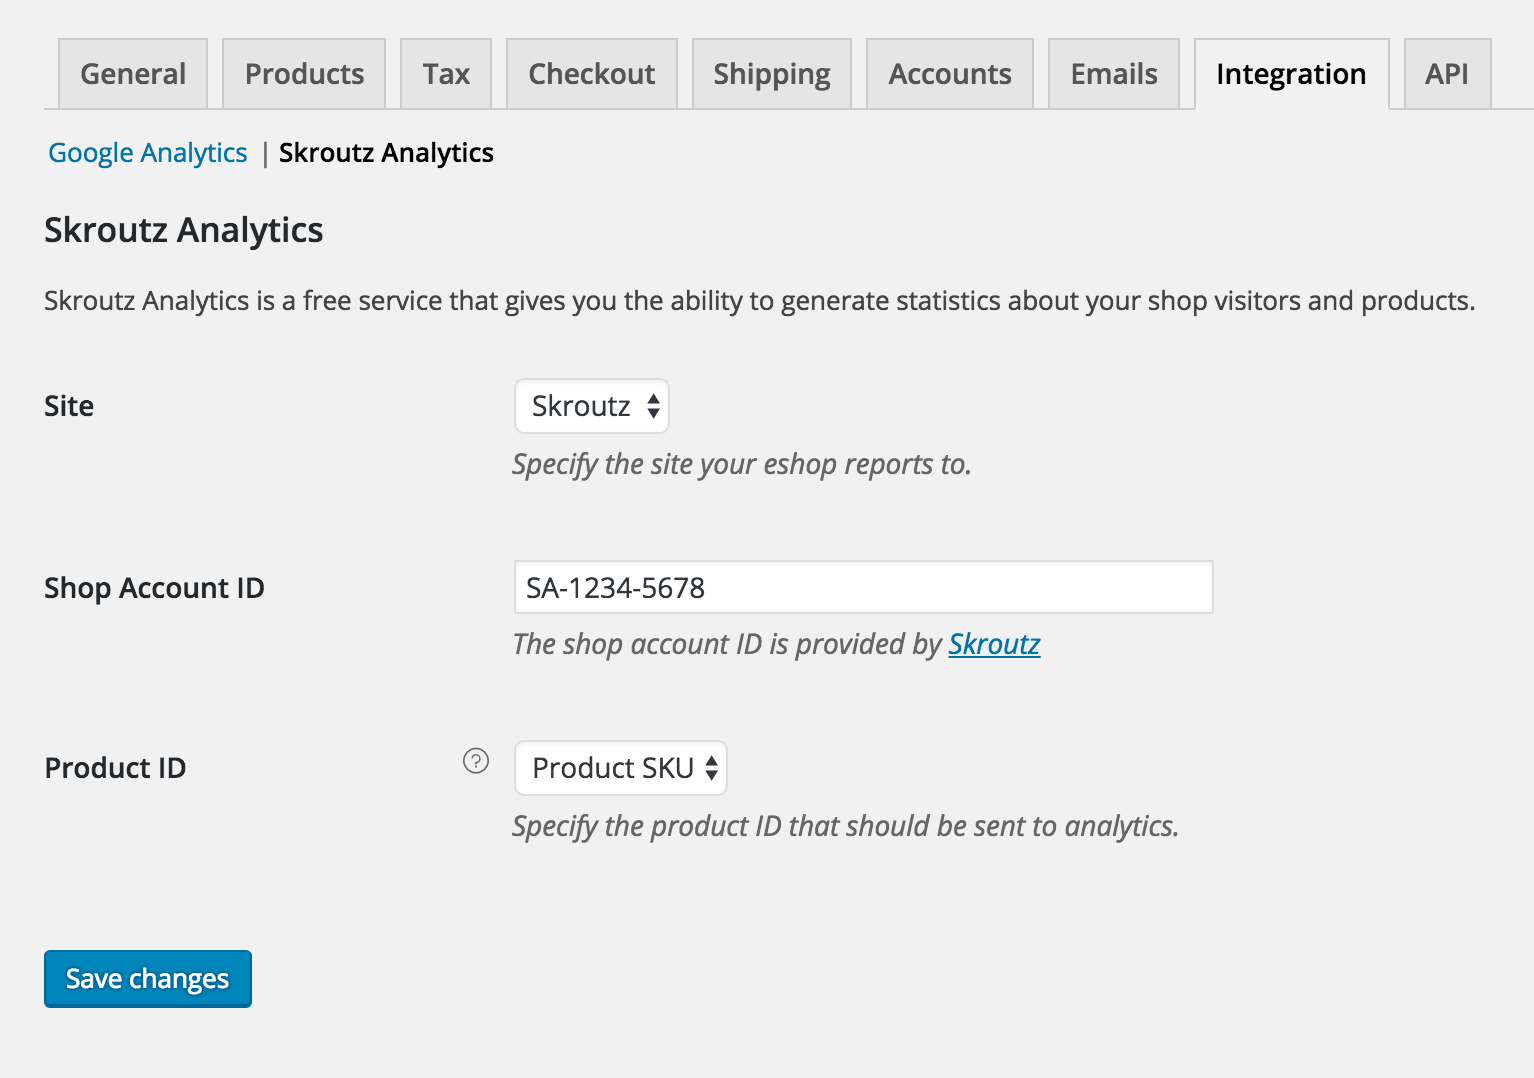
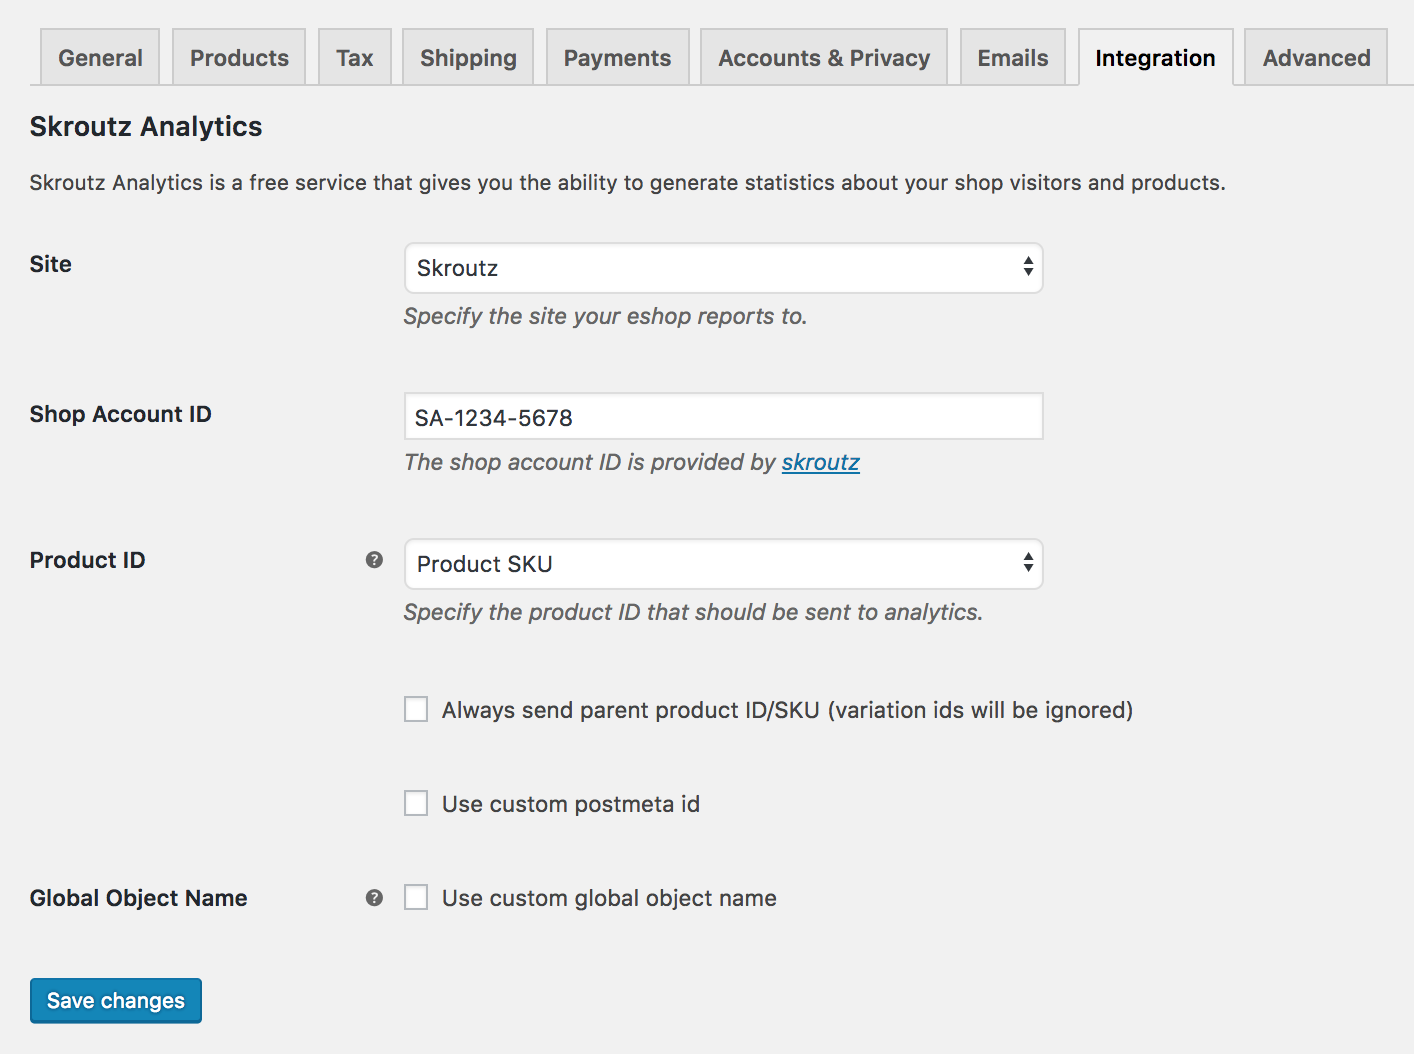
Bump to version 1.3.0

diff --git a/wc-skroutz-analytics.php b/wc-skroutz-analytics.php
@@ -15,7 +15,7 @@
  * Plugin Name:       WooCommerce Skroutz Analytics
  * Plugin URI:        https://github.com/skroutz/wc-skroutz-analytics
  * Description:       Integrate skroutz analytics to your WooCommerce enabled Wordpress site
- * Version:           1.2.0
+ * Version:           1.3.0
  * Author:            Skroutz
  * Author URI:        www.skroutz.gr
  * License:           GPL-2.0

diff --git a/includes/class-wc-skroutz-analytics.php b/includes/class-wc-skroutz-analytics.php
@@ -34,7 +34,7 @@ class WC_Skroutz_Analytics {
 	 * @since    1.0.0
 	 * @var      string    PLUGIN_VERSION    The current version of the plugin.
 	 */
-	const PLUGIN_VERSION = '1.2.0';
+	const PLUGIN_VERSION = '1.3.0';
 
 	/**
 	 * Define the core functionality of the plugin.

diff --git a/README.md b/README.md
@@ -58,6 +58,12 @@ The plugin uses the WooCommerce tax rates you have configured in the settings. I
     - Make sure the `Shipping checkbox` is checked in the Tax Rates table (see above)
     - Also the `Tax Status` under `WooCommerce > Settings > Shipping > Flat Rate` must be set to `Taxable`. Note that the `Cost` value should be set excluding tax, as the tax will be automatically applied by WooCommerce. For example if you want the shipping cost to be 5 euro, you should set the cost to 4.03, given a 24% rate tax. The same applies for all the shipping methods that are enabled for your eshop.
 
+##### I don't use neither product ID nor SKU in XML, but a custom postmeta id
+The option to use a custom postmeta id is supported. You have to check the `Use custom postmeta id` option in the plugin settings, and then specify the custom id key used in the postmeta table. Note that if the custom id is not found for a product the product id/sku will be used instead.
+
+##### Global object name `skroutz_analytics` is already being used, can I change it?
+The option to use a custom global object name is supported. You have to check the `Use custom global object name` option in the plugin settings, and then specify a name in the text field.
+
 ## Contributing
 If you discover issues, or have any ideas for improvements and features, please report them to the [issue tracker][3] of the repository, or submit a pull request.
 
